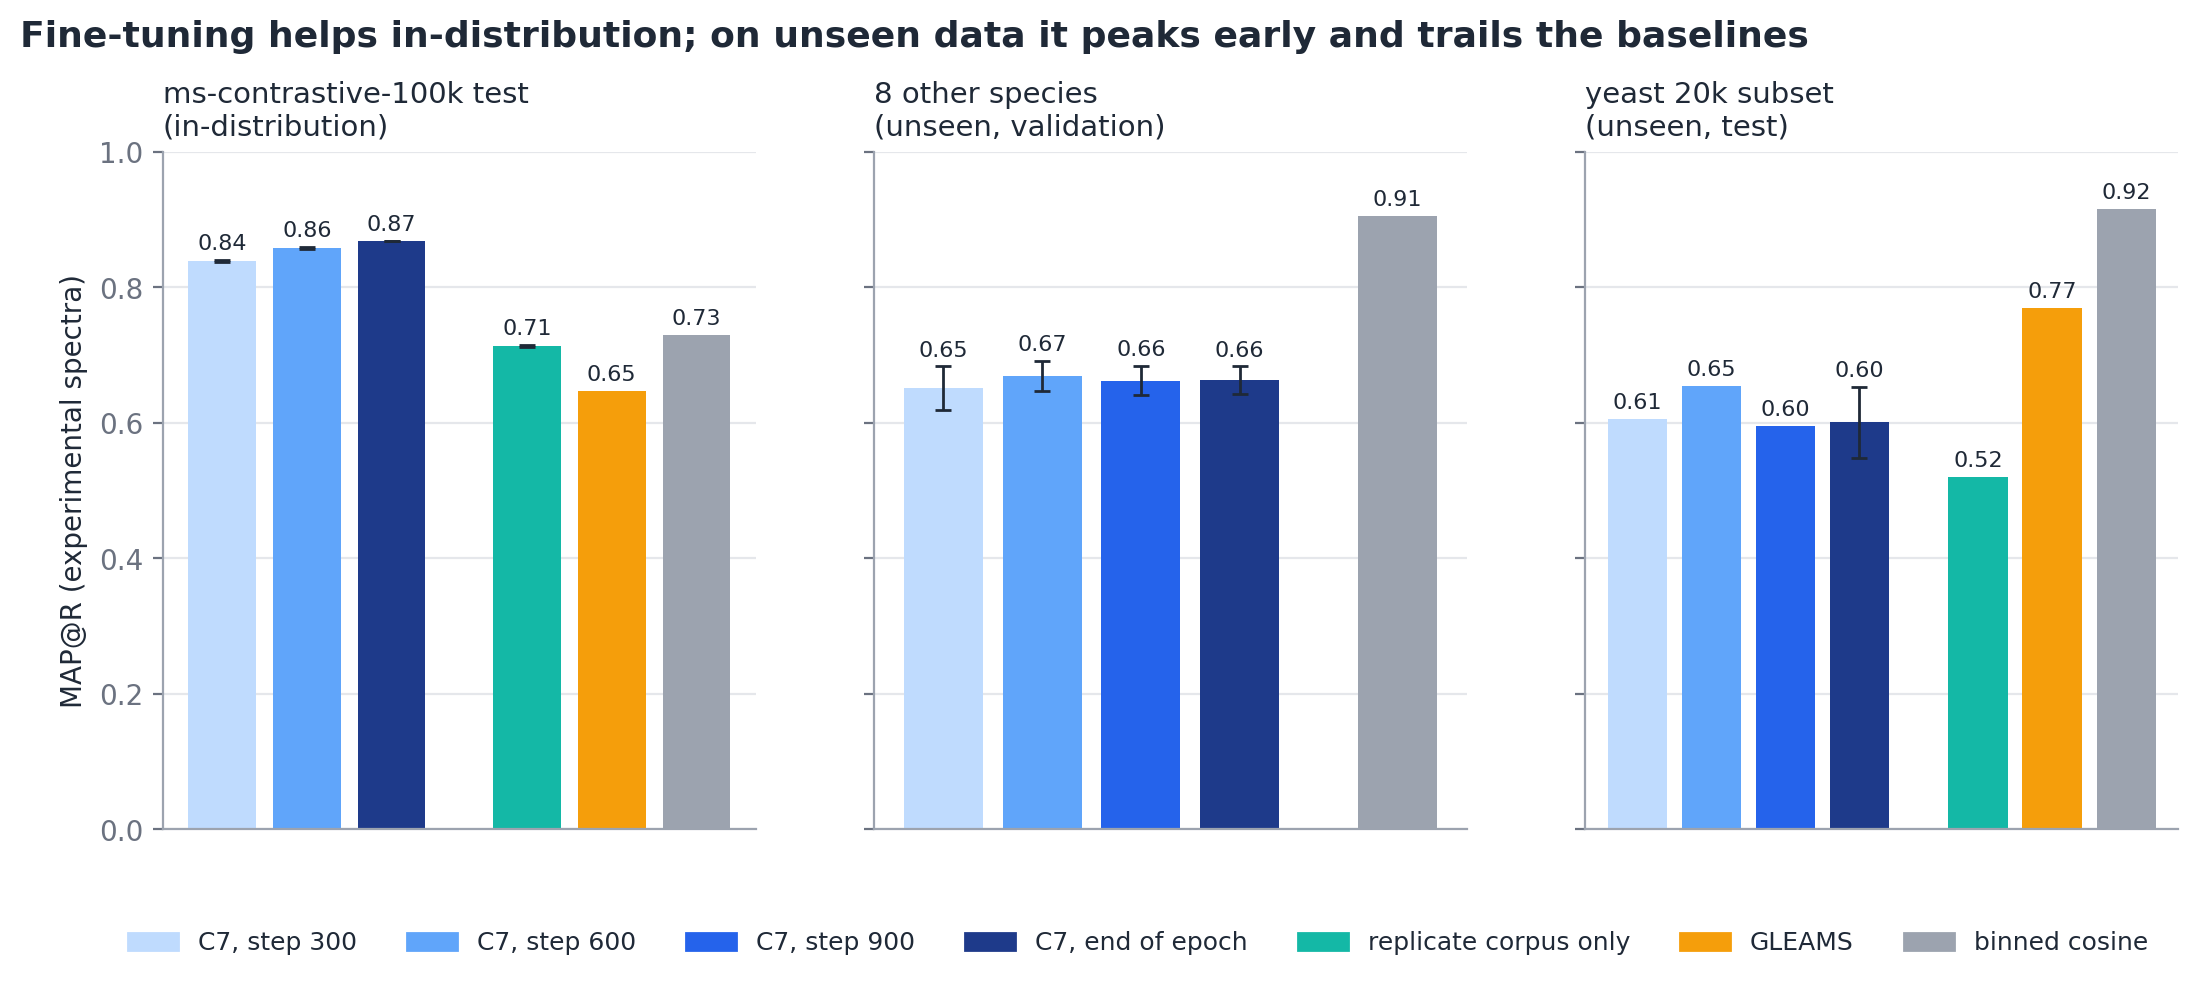
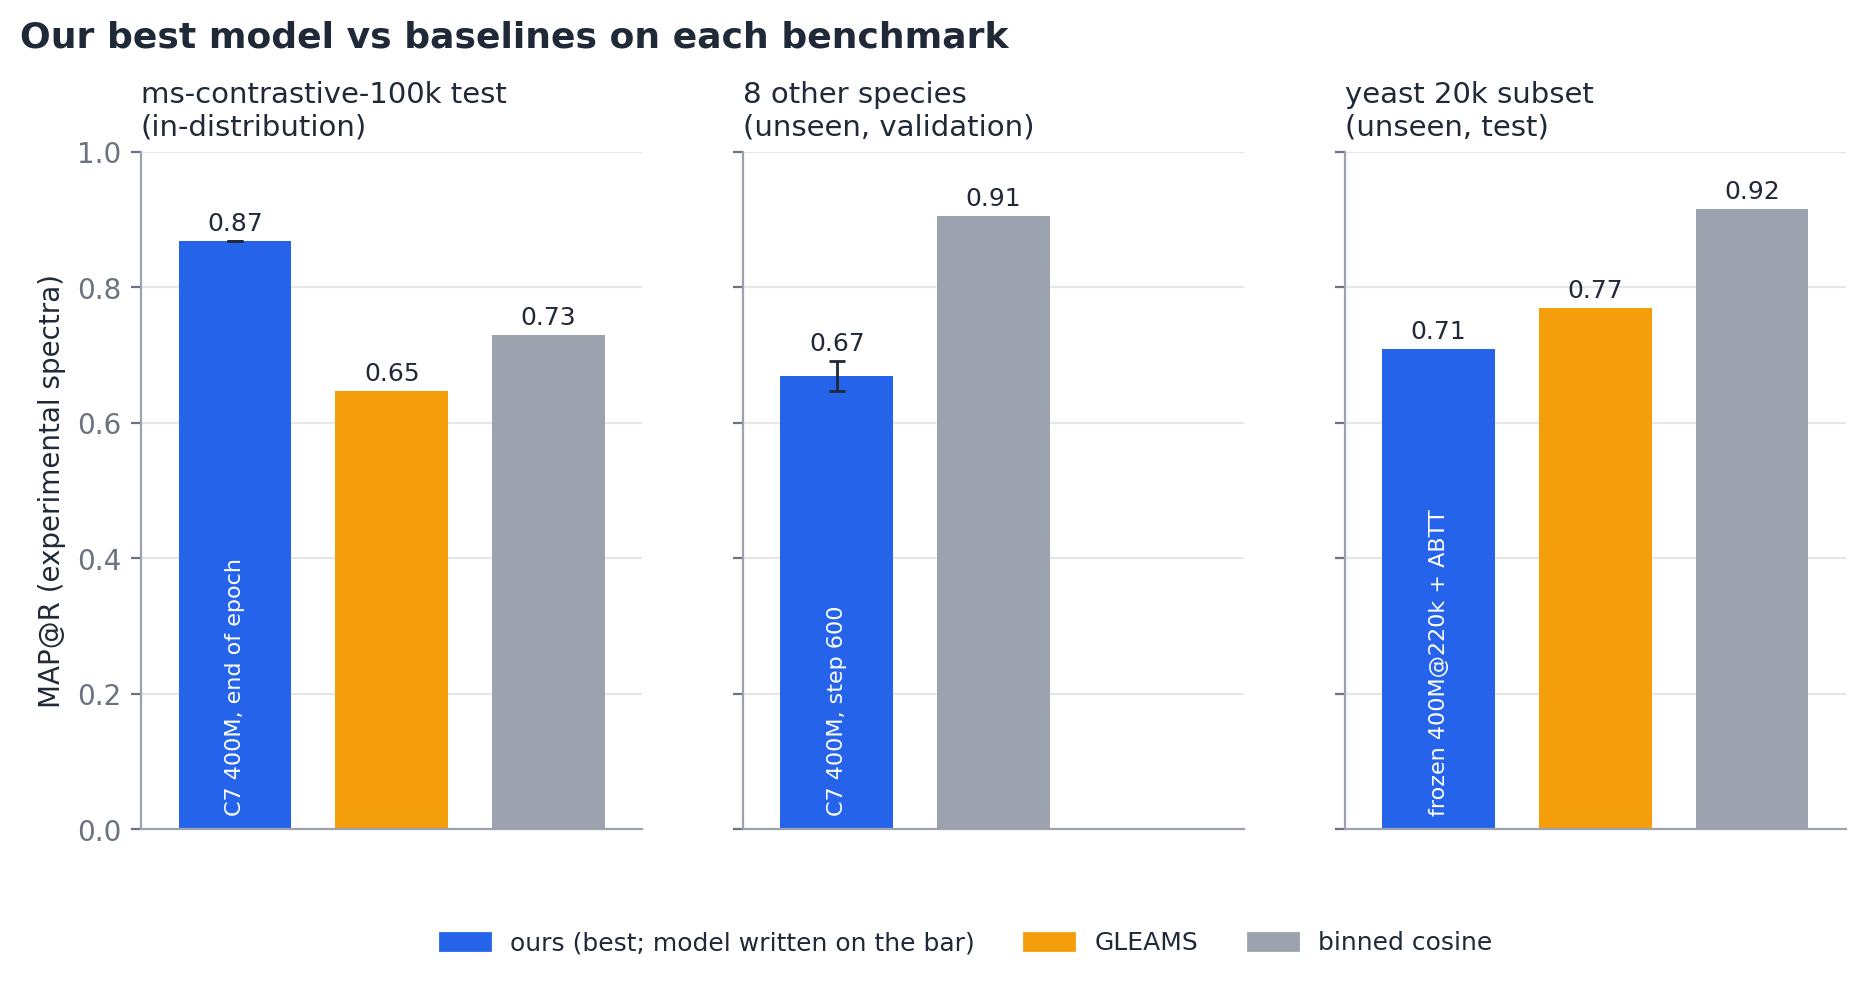
C_transfer: best of ours per benchmark vs GLEAMS and binned cosine
Claude-Session: https://claude.ai/code/session_01ATgkXx1oRRqvzB3G8wYeta

diff --git a/sweeps/package_contrastive.py b/sweeps/package_contrastive.py
@@ -213,43 +213,53 @@ def fig_zeroshot(zs):
         fig.savefig(FIG / "C_zeroshot.png"); plt.close(fig)
 
 
-def fig_transfer(rows):
-    meth = "C7 (replicate corpus -> ms-contrastive-100k)"
-    steps = [("s300", "C7, step 300"), ("s600", "C7, step 600"), ("s900", "C7, step 900"), ("final", "C7, end of epoch")]
-    blues = ["#bfdbfe", "#60a5fa", "#2563eb", "#1e3a8a"]
+def fig_transfer(rows, zs):
+    """Per benchmark: our best model (any of ours, labelled) vs GLEAMS vs binned cosine."""
+    c7 = "C7 (replicate corpus -> ms-contrastive-100k)"
+    step_name = {"s300": "step 300", "s600": "step 600", "s900": "step 900", "final": "end of epoch"}
+    def ours_best(b):
+        cands = []
+        for sc in ("50m", "400m"):
+            for st, nm in step_name.items():
+                v = pick(rows, b, c7, sc, stage=st)
+                if v:
+                    cands.append((f"C7 {sc.upper()}, {nm}", v))
+            v = pick(rows, b, "replicate corpus only (12 ep)", sc)
+            if v:
+                cands.append((f"replicate corpus only {sc.upper()}", v))
+        for r in zs:
+            if r["benchmark"] == b:
+                cands.append((f"frozen {r['encoder'].upper().replace('K', 'k')} + ABTT", [r["abtt_best"]]))
+        return max(cands, key=lambda c: np.mean(c[1]))
     panels = [("ms-contrastive-100k", "ms-contrastive-100k test\n(in-distribution)"),
               ("oodval-8species", "8 other species\n(unseen, validation)"),
               ("yeast-20k", "yeast 20k subset\n(unseen, test)")]
-    others = [("replicate corpus only", "#14b8a6", lambda b: pick(rows, b, "replicate corpus only (12 ep)", "400m")),
-              ("GLEAMS", GLEAMS, lambda b: pick(rows, b, "GLEAMS (pretrained)")),
-              ("binned cosine", BINNED, lambda b: [max(pick(rows, b, "binned cosine (1 Da bins)")
-                                                      + pick(rows, b, "binned cosine (0.1 Da bins)"))]
-               if pick(rows, b, "binned cosine (1 Da bins)") + pick(rows, b, "binned cosine (0.1 Da bins)") else [])]
-    series = [(lab, blues[k], (lambda st: lambda b: pick(rows, b, meth, "400m", stage=st))(st))
-              for k, (st, lab) in enumerate(steps)] + others
+    binned = lambda b: [max(pick(rows, b, "binned cosine (1 Da bins)") + pick(rows, b, "binned cosine (0.1 Da bins)"))]
     with plt.rc_context(STYLE):
-        fig, axes = plt.subplots(1, 3, figsize=(13, 4.4), sharey=True)
+        fig, axes = plt.subplots(1, 3, figsize=(11, 4.4), sharey=True)
         for ax, (b, title) in zip(axes, panels):
             ax.yaxis.grid(True, color=GRIDC, lw=0.8); ax.set_axisbelow(True)
+            lab, v = ours_best(b)
+            bars = [("ours (best)", OURS, v, lab), ("GLEAMS", GLEAMS, pick(rows, b, "GLEAMS (pretrained)"), ""),
+                    ("binned cosine", BINNED, binned(b), "")]
             x = 0
-            for lab, col, get in series:
-                v = get(b)
-                if v:
-                    m, s_ = msd(v)
-                    ax.bar(x, m, 0.8, color=col, yerr=s_ if len(v) > 1 else None, capsize=3,
-                           error_kw=dict(elinewidth=1, capthick=1, ecolor=INK), zorder=2)
-                    ax.text(x, m + (s_ if len(v) > 1 else 0) + 0.015, f"{m:.2f}", ha="center", fontsize=8)
-                    x += 1
-                if lab == steps[-1][1]:
-                    x += 0.6                                   # gap between our trajectory and the baselines
-            ax.set_xticks([]); ax.set_title(title, loc="left", fontsize=10.5)
-            ax.set_xlim(-0.7, x - 0.3)
+            for name, col, vals, sub in bars:
+                if not vals:
+                    continue
+                m, s_ = msd(vals)
+                ax.bar(x, m, 0.72, color=col, yerr=s_ if len(vals) > 1 else None, capsize=3,
+                       error_kw=dict(elinewidth=1, capthick=1, ecolor=INK), zorder=2)
+                ax.text(x, m + (s_ if len(vals) > 1 else 0) + 0.015, f"{m:.2f}", ha="center", fontsize=9)
+                if sub:
+                    ax.text(x, 0.02, sub, rotation=90, ha="center", va="bottom", fontsize=8, color="white")
+                x += 1
+            ax.set_xticks([]); ax.set_xlim(-0.6, 2.6); ax.set_title(title, loc="left", fontsize=10.5)
         axes[0].set_ylim(0, 1.0); axes[0].set_ylabel("MAP@R (experimental spectra)")
-        fig.suptitle("Fine-tuning helps in-distribution; on unseen data it peaks early and trails the baselines",
-                     x=0.07, ha="left", fontsize=13, fontweight="bold", y=1.03)
-        fig.legend(handles=[plt.Rectangle((0, 0), 1, 1, color=c) for _, c, _ in series],
-                   labels=[l for l, _, _ in series], frameon=False, fontsize=9, ncol=7,
-                   loc="upper center", bbox_to_anchor=(0.5, 0.02))
+        fig.suptitle("Our best model vs baselines on each benchmark", x=0.07, ha="left", fontsize=13,
+                     fontweight="bold", y=1.03)
+        fig.legend(handles=[plt.Rectangle((0, 0), 1, 1, color=c) for c in (OURS, GLEAMS, BINNED)],
+                   labels=["ours (best; model written on the bar)", "GLEAMS", "binned cosine"], frameon=False,
+                   fontsize=9, ncol=3, loc="upper center", bbox_to_anchor=(0.5, 0.02))
         fig.savefig(FIG / "C_transfer.png"); plt.close(fig)
 
 
@@ -266,7 +276,7 @@ def main():
         w = csv.DictWriter(fh, list(zs[0])); w.writeheader()
         for r in zs:
             w.writerow({k: (f"{v:.5f}" if isinstance(v, float) else v) for k, v in r.items()})
-    fig_benchmarks(rows); fig_pretraining(rows); fig_zeroshot(zs); fig_transfer(rows)
+    fig_benchmarks(rows); fig_pretraining(rows); fig_zeroshot(zs); fig_transfer(rows, zs)
     print(f"rows {len(rows)}, zero-shot rows {len(zs)}")
     agg = defaultdict(list)
     for r in rows:
